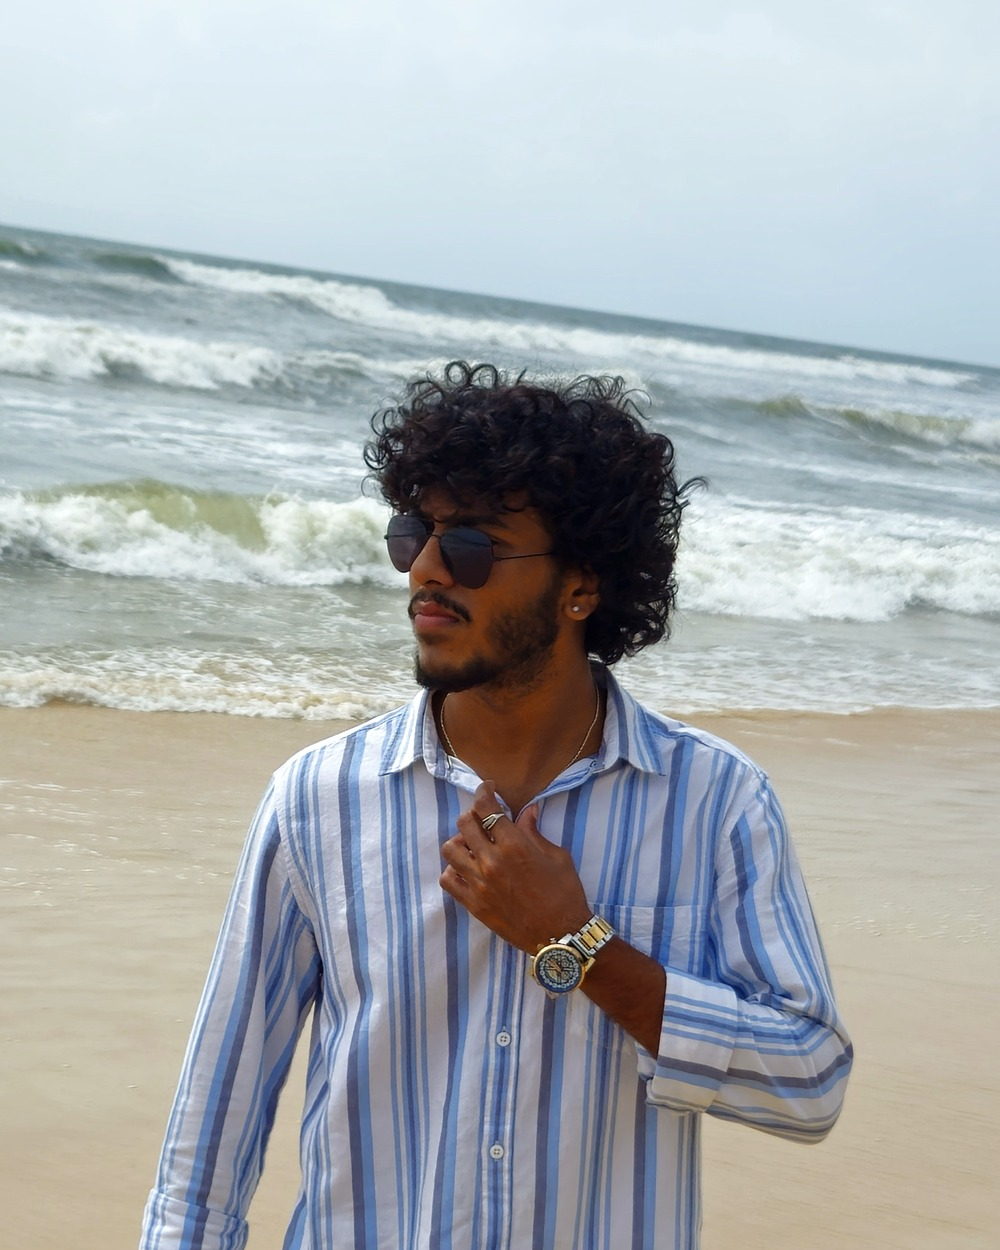
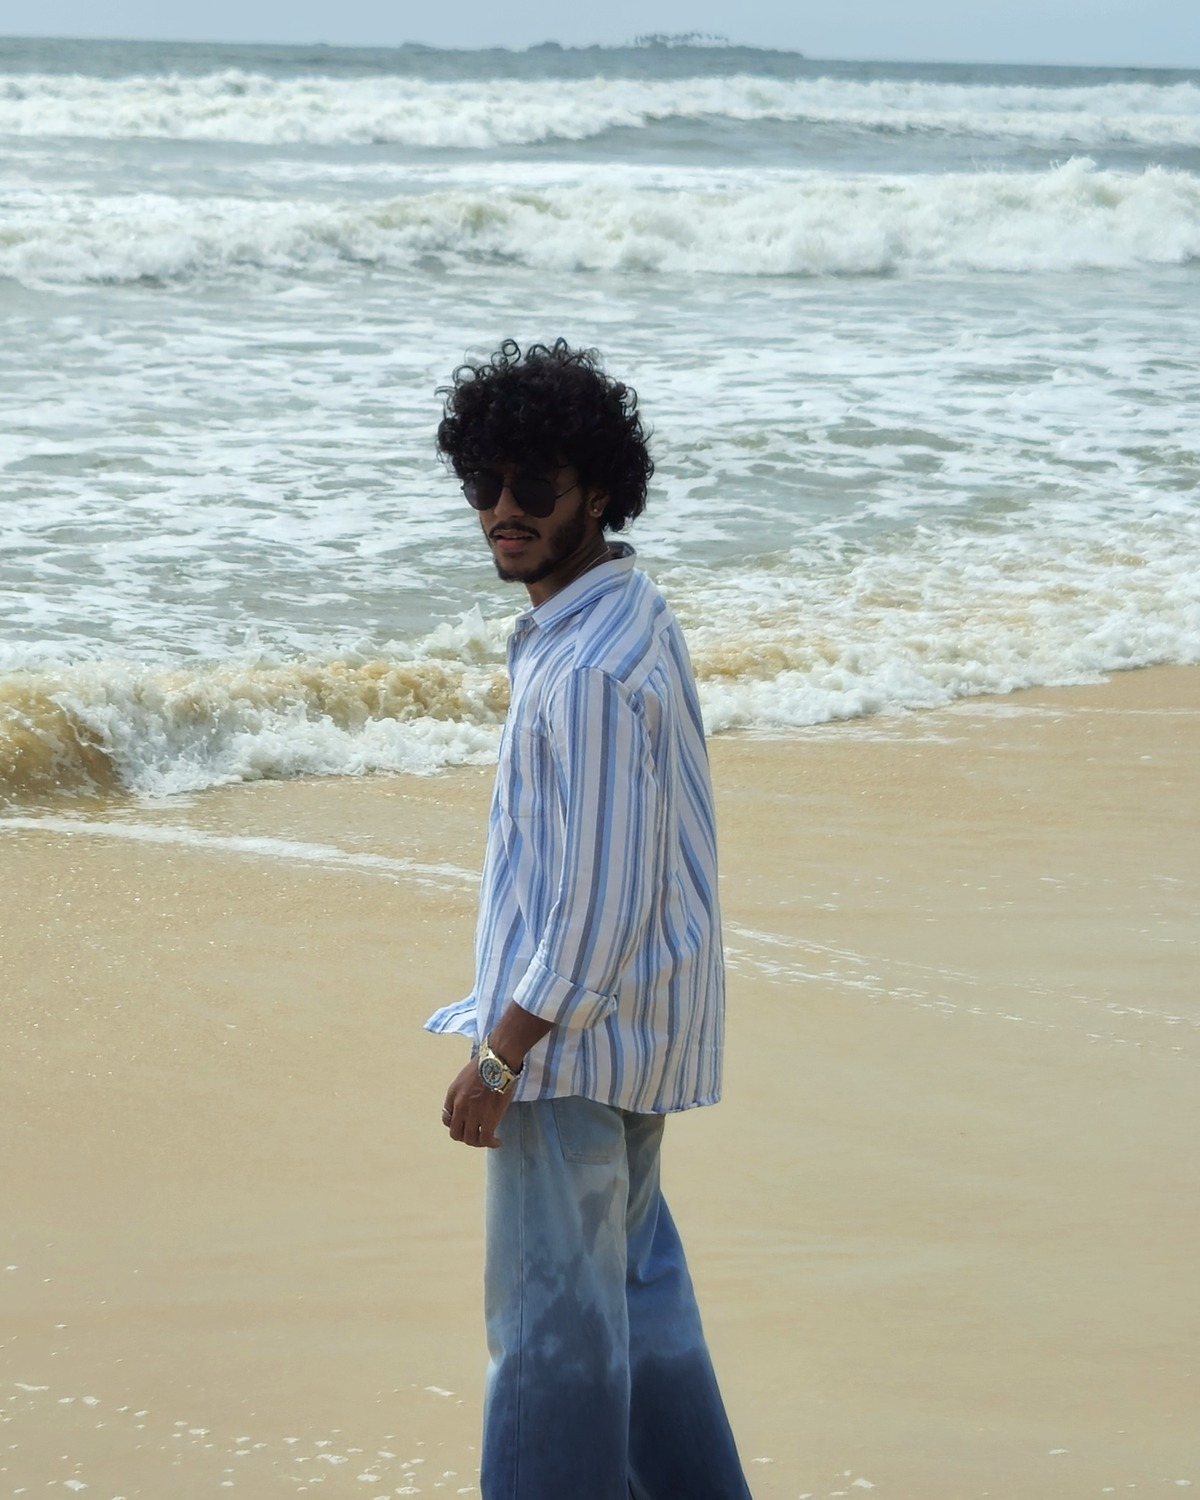
feat: replace hero with new beach walking photo, extend background continuity across home sections, and clean up obsolete assets

diff --git a/src/index.css b/src/index.css
@@ -806,9 +806,33 @@ p {
 /* ==========================================================================
    Editorial High-Fashion Hero & Layout Design System
    ========================================================================== */
-/* ==========================================================================
-   Editorial High-Fashion Hero & Layout Design System
-   ========================================================================== */
+.home-editorial-wrapper {
+  position: relative;
+  width: 100%;
+  min-height: 100vh;
+  background-color: var(--bg-color);
+  overflow: hidden;
+}
+
+.home-editorial-wrapper::after {
+  content: '';
+  position: absolute;
+  top: 85vh;
+  left: 0;
+  right: 0;
+  height: 180vh;
+  background-image: url('./assets/vivaswan_walking_bg.png');
+  background-size: cover;
+  background-position: center 60%;
+  background-repeat: no-repeat;
+  opacity: 0.16;
+  filter: blur(12px) saturate(130%);
+  pointer-events: none;
+  z-index: 1;
+  mask-image: linear-gradient(to bottom, rgba(0, 0, 0, 0.9) 0%, rgba(0, 0, 0, 0.5) 60%, rgba(0, 0, 0, 0) 100%);
+  -webkit-mask-image: linear-gradient(to bottom, rgba(0, 0, 0, 0.9) 0%, rgba(0, 0, 0, 0.5) 60%, rgba(0, 0, 0, 0) 100%);
+}
+
 .editorial-hero-section {
   min-height: 100vh;
   min-height: 100dvh;
@@ -817,7 +841,7 @@ p {
   flex-direction: column;
   justify-content: space-between;
   padding: calc(var(--nav-height) + var(--nav-top-offset) + 0.5rem) 2.5rem 2.5rem;
-  background-color: var(--bg-color);
+  background-color: transparent;
   position: relative;
   overflow: hidden;
   box-sizing: border-box;
@@ -853,10 +877,10 @@ p {
   background: linear-gradient(
     to bottom,
     rgba(3, 7, 18, 0.82) 0%,
-    rgba(3, 7, 18, 0.38) 20%,
-    rgba(3, 7, 18, 0.08) 45%,
-    rgba(3, 7, 18, 0.45) 75%,
-    rgba(3, 7, 18, 0.98) 100%
+    rgba(3, 7, 18, 0.35) 20%,
+    rgba(3, 7, 18, 0.05) 45%,
+    rgba(3, 7, 18, 0.4) 75%,
+    rgba(3, 7, 18, 0.9) 100%
   );
 }
 

diff --git a/src/components/Hero.jsx b/src/components/Hero.jsx
@@ -3,8 +3,8 @@ import { motion, useScroll, useTransform, useInView } from 'framer-motion';
 import { Link } from 'react-router-dom';
 import { ArrowRight, ArrowDown, Code, Cpu, Zap, Globe, User, Briefcase, Mail } from 'lucide-react';
 import { portfolioData } from '../data/portfolioData';
-import vivaswanBgImg from '../assets/vivaswan_hero_cinematic_bg.png';
-import vivaswanCutoutWideImg from '../assets/vivaswan_cutout_wide.png';
+import vivaswanBgImg from '../assets/vivaswan_walking_bg.png';
+import vivaswanCutoutImg from '../assets/vivaswan_walking_cutout.png';
 
 const Hero = () => {
     const containerRef = useRef(null);
@@ -21,7 +21,7 @@ const Hero = () => {
             ref={containerRef}
             className="editorial-hero-section"
         >
-            {/* Layer 0: Full-Hero Background Photo (Beach, Waves, Horizon) */}
+            {/* Layer 0: Full-Hero Background Photo (Walking Beach Scene) */}
             <div className="editorial-hero-bg-layer">
                 <img 
                     src={vivaswanBgImg} 
@@ -46,7 +46,7 @@ const Hero = () => {
             {/* Layer 3: Foreground Isolated Cutout Subject Overlapping the Typography */}
             <div className="editorial-hero-cutout-layer">
                 <img 
-                    src={vivaswanCutoutWideImg} 
+                    src={vivaswanCutoutImg} 
                     alt="Vivaswan Shetty" 
                     className="editorial-hero-cutout-img"
                 />
@@ -338,11 +338,11 @@ const QuickLinks = () => {
 
 const Home = () => {
     return (
-        <>
+        <div className="home-editorial-wrapper">
             <Hero />
             <FeaturedSection />
             <QuickLinks />
-        </>
+        </div>
     );
 };
 
